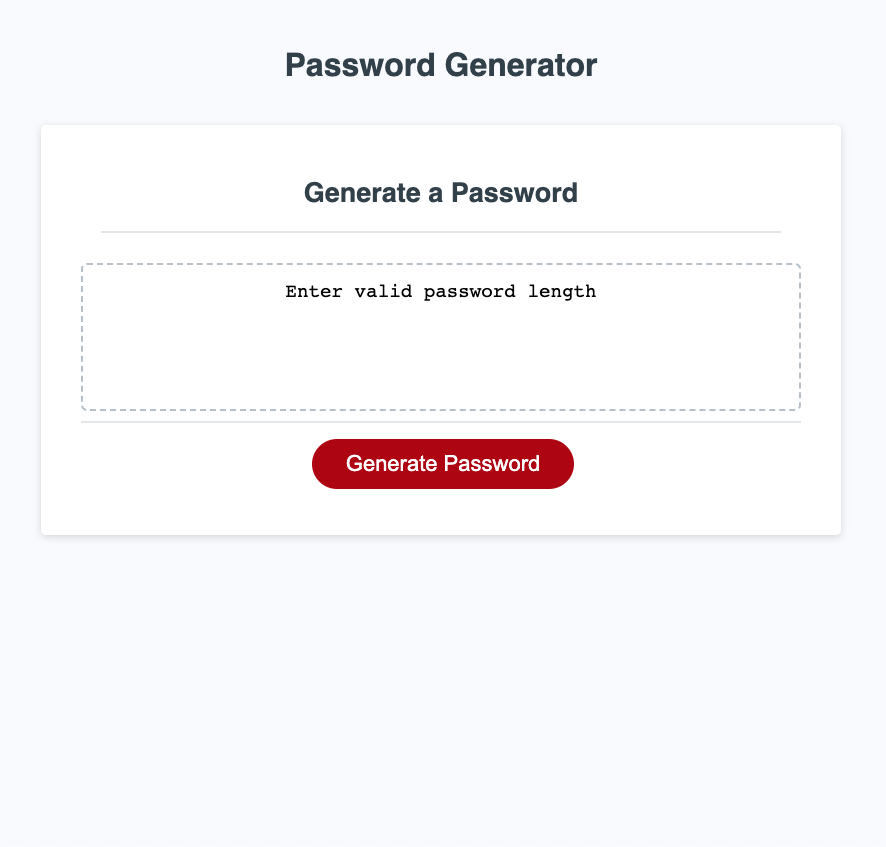
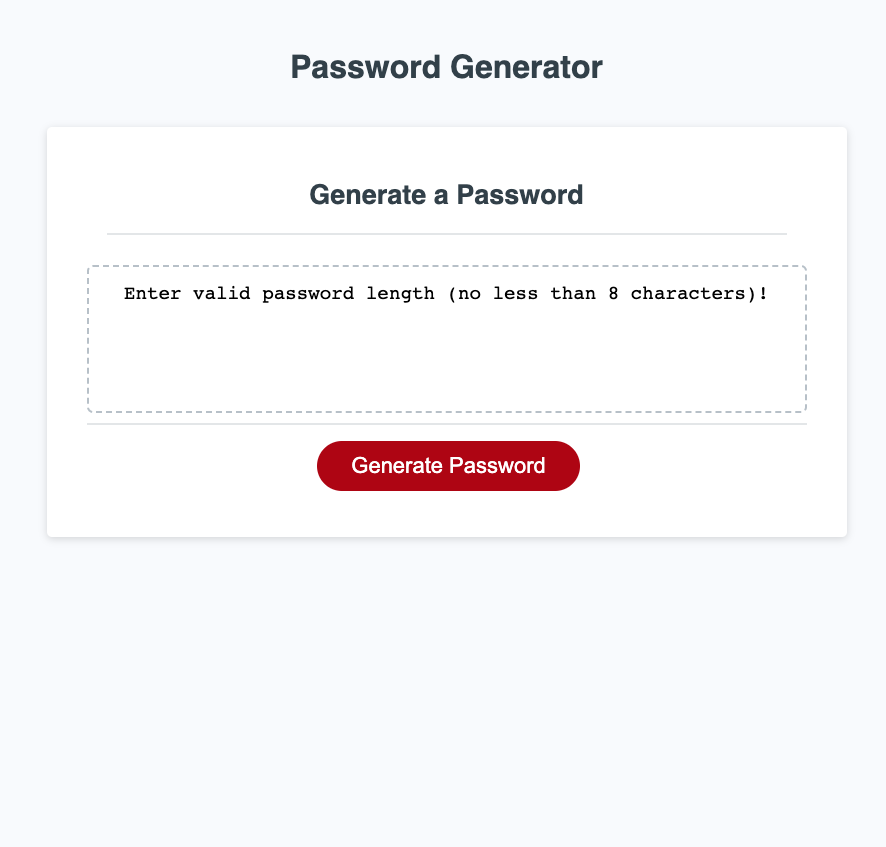
quality checks, updated text in validation message and supporting pictures

diff --git a/assets/js/script.js b/assets/js/script.js
@@ -84,10 +84,10 @@ var lengthCheck = finalPassword.length;
 console.log (lengthCheck);
 
 if (lengthCheck <= 7){
-    return "Enter valid password length (no less than 7 characters)!";
+    return "Enter valid password length (no less than 8 characters)!";
 
 } if (lengthCheck >=129){
-    return "Enter valid password length (no more than 129 characters)!";
+    return "Enter valid password length (no more than 128 characters)!";
 }
 
 else {

diff --git a/README.md b/README.md
@@ -32,9 +32,9 @@ The following images show the web application's appearance and functionality:
 ![Image of landing page](./assets/images/03-javascript-homework-demo.png)
 ![Image of prompts](./assets/images/screenshot1.png)
 ![Image of min validation](./assets/images/screenshot2.png)
-![Image of min validation](./assets/images/screenshot8.png)
+![Image of min validation](./assets/images/screenshot7.png)
 ![Image of max validation](./assets/images/screenshot3.png)
-![Image of min validation](./assets/images/screenshot9.png)
+![Image of min validation](./assets/images/screenshot8.png)
 ![Image of select at least one character type before submit](./assets/images/screenshot6.png)
 ![Image of select at least one character type after submit](./assets/images/screenshot4.png)
 ![Image of password generated](./assets/images/screenshot5.png)
